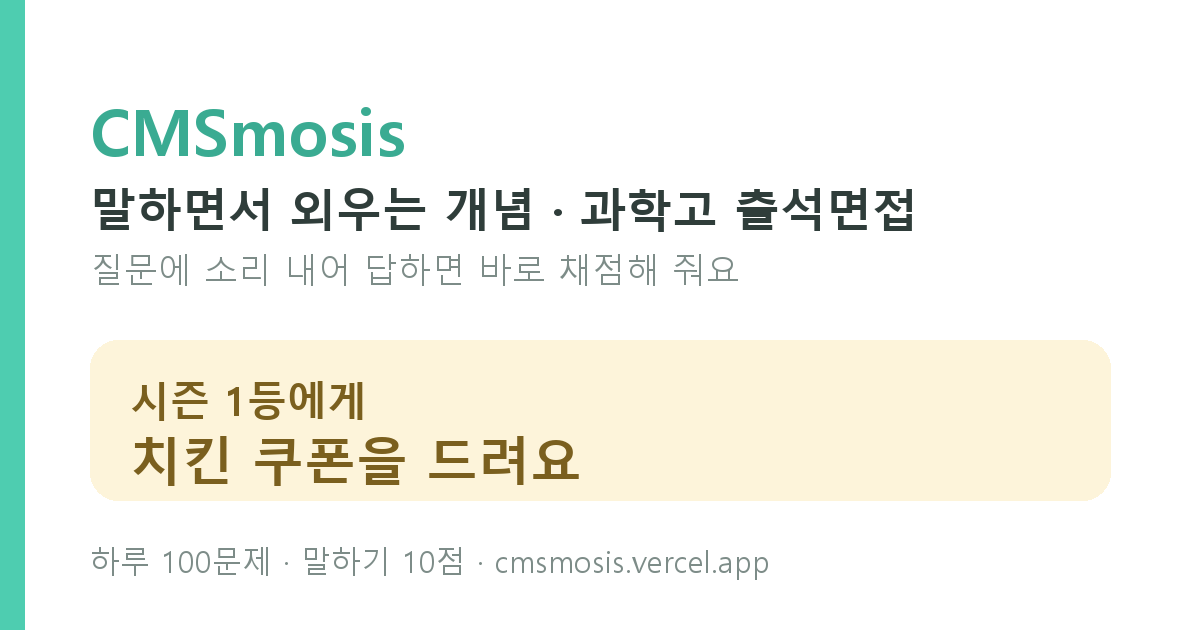
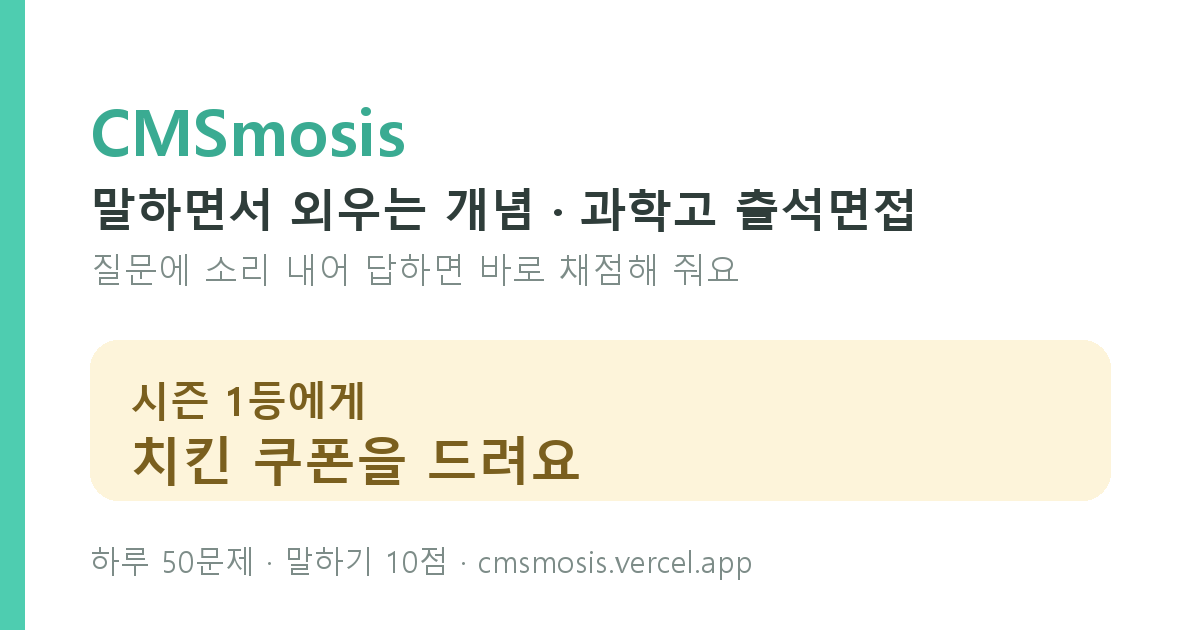
하루 50문제로 줄임 · 음성인식 보완
- 하루 채점 문제 수 100 → 50 (서버는 supabase_limit50.sql)
- 인식 후보 문장 5개를 받아, 첫 후보가 틀려도 다른 후보에 정답 낱말이 있으면 인정
- 카드 키워드를 '예상 단어'로 크롬에 알려줌 (지원하는 크롬에서만, 안 되면 자동으로 끔)
- "말하기 종료" 뒤 마지막 말까지 받은 다음 채점 (끝말이 잘리던 문제)
- 말이 잠깐 끊겨 인식기가 혼자 멈추면 이어서 듣기 (최대 3번)
- 안드로이드 크롬에서 같은 말이 두 번씩 적히던 것 정리

Changed region(s): [[0.1233, 0.8746, 0.6475, 0.9349]]

diff --git a/index.html b/index.html
@@ -11,7 +11,7 @@
 <meta property="og:type" content="website" />
 <meta property="og:site_name" content="CMSmosis" />
 <meta property="og:title" content="CMSmosis · 말하면서 외우는 개념 · 출석면접" />
-<meta property="og:description" content="시즌 1등에게 치킨 쿠폰! 하루 100문제까지, 소리 내어 말하고 자동 채점받아요." />
+<meta property="og:description" content="시즌 1등에게 치킨 쿠폰! 하루 50문제까지, 소리 내어 말하고 자동 채점받아요." />
 <meta property="og:url" content="https://cmsmosis.vercel.app/" />
 <meta property="og:image" content="https://cmsmosis.vercel.app/og-image.png" />
 <meta property="og:image:width" content="1200" />
@@ -720,7 +720,7 @@ main { flex: 1; padding: 18px 16px 8px; }
     <div class="goal-wrap">
       <div class="goal-row">
         <span id="goalLabel">오늘 푼 문제 · 목표 20</span>
-        <span id="goalText">0 / 100</span>
+        <span id="goalText">0 / 50</span>
       </div>
       <div class="goalbar"><div class="goalbar-fill" id="goalFill"></div></div>
     </div>
@@ -915,7 +915,7 @@ const XP_PER_LEVEL = 100;
 /* ---------- 시즌 ----------
    시즌은 선생님이 관리 탭에서 이름·기간·상품을 정해 만든다 (supabase_season_v2.sql).
    날짜는 모두 한국 날짜(YYYY-MM-DD)로 다룬다. */
-const DAILY_LIMIT = 100;            // 하루에 채점되는 문제 수. 서버 record_answer() 와 같아야 한다.
+const DAILY_LIMIT = 50;             // 하루에 채점되는 문제 수. 서버 record_answer() 와 같아야 한다.
 const DAY_MS = 86400000;
 const APP_URL = 'https://cmsmosis.vercel.app/';
 
@@ -1535,7 +1535,7 @@ function josa(word, withBatchim, without) {
   return w + (has ? withBatchim : without);
 }
 
-/* 오늘 100문제를 다 채우면 연습 모드: 채점은 해 주지만 점수·기록은 남지 않는다 */
+/* 오늘 50문제를 다 채우면 연습 모드: 채점은 해 주지만 점수·기록은 남지 않는다 */
 let practiceMode = false;
 
 function showLimitNote() {
@@ -2220,23 +2220,68 @@ document.querySelectorAll('.tabbar button').forEach(btn => {
 let recognition = null;
 let listening = false;
 let transcript = '';
+let transcriptAlts = [];     // 인식기가 준 다른 후보 문장들. 채점할 때 같이 본다
+let heardBefore = '';        // 인식기가 혼자 멈췄다 다시 켜질 때, 앞에서 들은 내용
+let heardBeforeAlts = [];
+let autoRestarts = 0;        // 말 없이 혼자 다시 켜진 횟수 (무한히 켜지지 않게)
+let gradeOnEnd = false;      // "말하기 종료"를 눌렀다 → 마지막 말까지 받은 뒤 채점
+let gradeTimer = null;
+let phrasesOff = false;      // 이 브라우저가 '예상 단어 알려주기'를 못 하면 끈다
 
 const SR = window.SpeechRecognition || window.webkitSpeechRecognition;
+
+/* 안드로이드 크롬은 앞에서 들은 말을 다시 붙여 보내서 같은 말이 두 번씩 적힌다.
+   새 조각이 앞 내용을 포함하면 바꿔 끼우고, 이미 있는 말이면 버린다. */
+function joinFinals(parts) {
+  let out = '';
+  for (const p of parts) {
+    const t = p.trim();
+    if (!t) continue;
+    const o = out.trim();
+    if (!o || t.startsWith(o)) out = t;
+    else if (o.endsWith(t) || o.includes(t)) continue;
+    else out = o + ' ' + t;
+  }
+  return out;
+}
+
+/* 이 카드에서 나올 만한 낱말을 인식기에 미리 알려준다 (지원하는 크롬에서만).
+   키워드 중 한글 낱말만 쓴다. 숫자·기호는 알려줘도 도움이 안 된다. */
+function cardPhrases(card) {
+  const words = new Set();
+  parseKeywords(card).forEach(k => k.alts.forEach(a => {
+    if (/^[가-힣 ]{2,15}$/.test(a)) words.add(a);
+  }));
+  return [...words].slice(0, 30);
+}
+
+function applyPhrases() {
+  if (!recognition || phrasesOff || !current || !('SpeechRecognitionPhrase' in window)) return;
+  try {
+    recognition.phrases = cardPhrases(current).map(p => new window.SpeechRecognitionPhrase(p, 5.0));
+  } catch (e) { phrasesOff = true; }
+}
+
 if (SR) {
   recognition = new SR();
   recognition.lang = 'ko-KR';
   recognition.continuous = true;      // 말이 잠깐 끊겨도 계속 듣는다
   recognition.interimResults = true;  // 말하는 중에도 화면에 보여준다
+  recognition.maxAlternatives = 5;    // 후보 문장을 여러 개 받아서 채점에 같이 쓴다
 
   recognition.onresult = e => {
-    let fixed = '', tentative = '';
+    const finals = [], alts = [];
+    let tentative = '';
     for (let i = 0; i < e.results.length; i++) {
-      const txt = e.results[i][0].transcript;
-      if (e.results[i].isFinal) fixed += txt;
-      else tentative += txt;
+      const r = e.results[i];
+      if (r.isFinal) finals.push(r[0].transcript);
+      else tentative += r[0].transcript;
+      for (let j = 1; j < r.length; j++) alts.push(r[j].transcript);
     }
     if (editing) return;              // 고치는 중에는 입력칸을 건드리지 않는다
-    transcript = (fixed + tentative).trim();
+    autoRestarts = 0;
+    transcript = [heardBefore, joinFinals(finals), tentative.trim()].filter(Boolean).join(' ').trim();
+    transcriptAlts = [...heardBeforeAlts, ...alts];
     if (transcript) spokeThisCard = true;   // 실제로 말했다 → 10 XP 자격
     heardText.textContent = '🗣 ' + (transcript || '…');
     heardText.classList.add('on');
@@ -2246,6 +2291,13 @@ if (SR) {
   recognition.onerror = ev => {
     if (ev.error === 'no-speech') return;   // 잠깐 조용한 건 오류가 아니다
     if (ev.error === 'aborted') return;     // "다시 말하기" 로 우리가 끈 것이다
+    if (ev.error === 'phrases-not-supported') {   // 예상 단어 기능을 못 쓰는 크롬 → 끄고 다시 듣기
+      phrasesOff = true;
+      try { recognition.phrases = []; } catch (e) { /* noop */ }
+      restartWanted = true;
+      return;
+    }
+    gradeOnEnd = false;
     heardText.textContent = ev.error === 'not-allowed'
       ? '마이크 권한이 필요해요. 주소창의 자물쇠에서 허용해주세요.'
       : '잘 안 들렸어요. 다시 시도해볼까요?';
@@ -2256,8 +2308,22 @@ if (SR) {
   // 다시 말하기는 인식기를 껐다 켜야 한다. stop()/abort() 는 곧바로 멈추지 않고
   // onend 가 나중에 오기 때문에, 여기서 이어받아 다시 시작한다.
   recognition.onend = () => {
+    if (gradeOnEnd) {                 // "말하기 종료" → 마지막 말까지 받았으니 채점
+      gradeOnEnd = false;
+      clearTimeout(gradeTimer);
+      setMicIdle();
+      finishSpeaking();
+      return;
+    }
+    if (restartWanted) { restartWanted = false; listening = false; startListening(); return; }
+    // 학생이 끄지 않았는데 인식기가 혼자 멈췄다 (말이 잠깐 끊기면 크롬이 멈춘다) → 이어서 듣는다
+    if (listening && autoRestarts < 3) {
+      autoRestarts++;
+      heardBefore = transcript;
+      heardBeforeAlts = transcriptAlts;
+      try { recognition.start(); return; } catch (e) { /* 아래에서 멈춤 처리 */ }
+    }
     setMicIdle();
-    if (restartWanted) { restartWanted = false; startListening(); }
   };
 }
 
@@ -2292,7 +2358,9 @@ function closeEdit() {
 
 function stopListening() {
   transcript = '';
+  transcriptAlts = [];
   restartWanted = false;
+  gradeOnEnd = false;
   closeEdit();
   if (!recognition || !listening) { setMicIdle(); return; }
   try { recognition.stop(); } catch (e) { /* 이미 멈춘 상태 */ }
@@ -2302,6 +2370,12 @@ function stopListening() {
 function startListening() {
   if (!recognition || listening) return;
   transcript = '';
+  transcriptAlts = [];
+  heardBefore = '';
+  heardBeforeAlts = [];
+  autoRestarts = 0;
+  gradeOnEnd = false;
+  applyPhrases();
   wasEdited = false;
   heardInput.value = '';
   closeEdit();
@@ -2321,11 +2395,21 @@ micBtn.addEventListener('click', () => {
   if (editing) { finishSpeaking(); return; }   // 고친 내용으로 채점
   if (!recognition) return;
 
-  if (listening) {          // 두 번째 누름 = 말하기 종료 → 바로 채점
+  if (listening) {          // 두 번째 누름 = 말하기 종료 → 마지막 말까지 받고 채점
     restartWanted = false;
-    try { recognition.stop(); } catch (e) { /* noop */ }
-    setMicIdle();
-    finishSpeaking();
+    listening = false;      // 혼자 다시 켜지지 않게
+    gradeOnEnd = true;
+    micBtn.textContent = '채점 중…';
+    try { recognition.stop(); } catch (e) { gradeOnEnd = false; }
+    // onend 가 안 오는 브라우저도 있어서 잠깐만 기다린다
+    clearTimeout(gradeTimer);
+    gradeTimer = setTimeout(() => {
+      if (!gradeOnEnd) return;
+      gradeOnEnd = false;
+      setMicIdle();
+      finishSpeaking();
+    }, 1500);
+    if (!gradeOnEnd) { setMicIdle(); finishSpeaking(); }
     return;
   }
 
@@ -2394,7 +2478,13 @@ function finishSpeaking() {
 
   if (!hasGradingKeywords(current)) return;   // 채점 기준이 없는 문제 → 정답만
 
-  const result = gradeBySpeech(current, said);
+  let result = gradeBySpeech(current, said);
+  // 인식기가 가장 그럴듯하다고 고른 문장이 틀렸어도, 다른 후보 문장에 정답 낱말이 있으면 인정한다
+  // (예: 첫 후보는 "내 심장", 둘째 후보는 "내심이") — 직접 고친 경우는 고친 내용만 본다
+  if (!result.pass && spoke && !edited && transcriptAlts.length) {
+    const withAlts = gradeBySpeech(current, [said, ...transcriptAlts].join(' '));
+    if (withAlts.pass) result = withAlts;
+  }
   showVerdict(result, { edited, spoke, xp });
   grade(result.pass, false, xp, spoke);
 }
